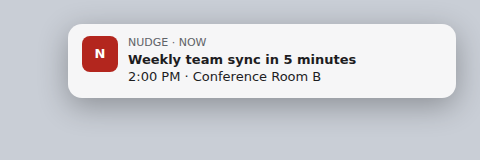
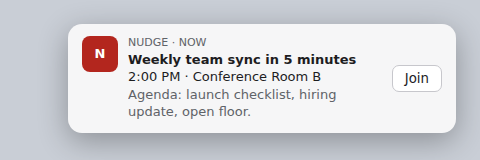
T-78: Nudge: design: S01 'Now' section and Join buttons on S01-S03

Changed region(s): [[0.125, 0.5625, 0.9688, 0.9375], [0.8125, 0.4062, 0.9062, 0.5312]]

diff --git a/design/screens/S01-menu-bar-menu/spec.md b/design/screens/S01-menu-bar-menu/spec.md
@@ -1,24 +1,35 @@
 ---
 id: S01
 name: Menu bar menu
-purpose: Check that Nudge is working, see what's next, and fix problems
-size: 372x340
+purpose: Check that Nudge is working, see what's on now and next, join a call, and fix problems
+size: 372x600
 ---
 
 ## Content and actions
 - Status line: green dot + "Synced just now · <calendar>" or red dot + problem text.
-- Next meetings: up to 3 upcoming today on the chosen calendar; meeting due within 5 min shows "in N min" in bold amber.
+- Now: shown only while a meeting is running (start ≤ now < end; all-day and declined meetings excluded), under a "Now" header above "Next meetings". Up to 3, earliest start first. Detail is "until <end time>" (e.g. "until 2:00 PM") in the normal muted style. Bold amber stays reserved for "in N min".
+- Next meetings: up to 3 upcoming today on the chosen calendar; meeting due within 5 min shows "in N min" in bold amber. The header is left out when nothing is coming up.
+- Meeting row (Now and Next): title on the left (one line, ellipsis), detail right-aligned. A meeting with a join link shows a small "Join" pill (11px semibold, white on accent #0B57D0, 5px radius) just left of the detail; the detail column stays right-aligned either way.
+- Description: the start of the meeting's notes, under the title in 12px muted text, two lines at most, then ellipsis. Plain text only: HTML stripped, whitespace collapsed, and lines that are only a join link or conferencing boilerplate (e.g. "Join with Google Meet", dial-in numbers) removed. If nothing is left, no line is shown and the row stays one line.
+- Join: a meeting row with a link is enabled; clicking anywhere on the row (or pressing Return on it) opens the link in the default browser/app and closes the menu. Rows without a link show no pill and are not clickable (same as before).
 - Calendar submenu: pick which calendar to watch (checkmark on current).
 - Test the alerts: runs the S03 banner and S02 screen with a fake meeting.
 - Refresh now (⌘R), Quit (⌘Q).
 - Menu bar icon: template bell, one colour, tinted by macOS for light and dark menu bars. While a problem exists: the same bell with a solid #B3261E dot at its top-right, separated from the bell by a thin clear ring. The bell itself never turns red.
 ## States
-- Normal: screen.html. Empty (no more meetings today): states/empty.html.
-- Error (network/calendar failure): states/error.html. Keeps alerting from last saved data, says so, offers Retry.
+- Normal: screen.html (a running meeting under Now, three next meetings; one without a link or description).
+- Running meeting, nothing after it today: states/now-only.html. Now section only; no "Next meetings" header and no empty text.
+- Empty: states/empty.html. "No more meetings today. Enjoy the quiet." shows only when nothing is running and nothing else is coming up today. Calendar, Test the alerts and Refresh now stay in the menu.
+- Error (network/calendar failure): states/error.html. Keeps alerting from last saved data, says so, offers Retry. Now and Join work from saved data too.
 - No access / no account: states/no-access.html, links to the macOS permission prompt and Internet Accounts.
 - Loading: status reads "Syncing…" with no dot colour change; list stays as is.
+- Highlighted row (hover or arrow keys): standard blue selection; the pill inverts to white with blue text and the description turns white.
 ## Notes and open questions
 - Problems are never shown as popups; only in this menu and the icon, so alerts are never interrupted.
+- The whole row is the Join target rather than a separate button, so it works with the keyboard like any menu item and stays a single NSMenuItem (custom view for the pill and description).
+- VoiceOver label per row: "<title>, <detail>. Join" when there is a link, "<title>, <detail>" otherwise; the description is read after it.
 ## Change log
 - Initial design.
 - Menu bar icon: problem state is the template bell plus a red #B3261E dot, replacing the red-tinted bell.badge.
+- Added the "Now" section for running meetings; new state states/now-only.html; empty.html now keeps the Calendar/Test/Refresh rows and shows only when nothing is running or coming up (T-78; T-76 already matches).
+- Added the Join pill and the two-line description to meeting rows, including in the error state (T-78, built in T-77).

diff --git a/design/ux.md b/design/ux.md
@@ -1,22 +1,24 @@
 # Nudge: UX spec
 ## Users and primary jobs
-One user: a busy person who misses meetings despite Google Calendar banners. Jobs: (1) get a loud early heads-up, (2) get an unmissable final warning, (3) trust the app is running and in sync.
+One user: a busy person who misses meetings despite Google Calendar banners. Jobs: (1) get a loud early heads-up, (2) get an unmissable final warning and get into the call in one click, (3) trust the app is running and in sync.
 ## Information architecture
 No windows. Menu bar only: S01 Menu bar menu; alerts S03 Five-minute banner and S02 Full-screen warning.
 ## Key flows
 1. First run: S01 shows no-access state → user allows calendar access / adds Google account → S01 normal.
-2. T-5 min: S03 banner + sound.
-3. T-1 min: S02 covers all screens → "Got it" dismisses.
-4. Sync failure: S01 icon turns red; menu explains and keeps alerting from saved data → Retry.
+2. T-5 min: S03 banner + sound → "Join" (if the meeting has a link) opens the call.
+3. T-1 min: S02 covers all screens → "Join" opens the call and dismisses, or "Got it" / Return / Esc dismisses.
+4. Any time: S01 shows the running meeting under "Now" and today's next ones → click a row with a "Join" pill to open the call.
+5. Sync failure: S01 icon turns red; menu explains and keeps alerting from saved data → Retry.
 ## Design system
 - Colours: alert red #7A0F0A, error red #B3261E, ok green #1E7F3C, amber #A35200, text #1D1D1F, muted #5F6368, menu bg #F6F6F7, accent #0B57D0. Brand (logo and app icon only): gradient #EF5A47 → #C42F25, calendar header #9E1F17.
 - Type: system font (SF). Menu 13px; banner title 13px semibold; full-screen: 96px title, 200px countdown, 24–28px secondary.
 - Spacing: 6/10/14px in menus; 40px padding full-screen.
-- Components: menu row, status line, primary button (white on red).
+- Components: menu row, status line, primary button (white on red), secondary button (white outline on red), Join pill (S01: 11px semibold, white on #0B57D0, 5px radius).
+- Join link: the meeting's URL field first, then the first link in its location or notes, preferring Google Meet (meet.google.com), Zoom (zoom.us), Teams (teams.microsoft.com), else any https link. No link: no Join anywhere.
+- Description: the start of the meeting's notes as plain text (HTML stripped, whitespace collapsed, join-link and dial-in boilerplate removed), two lines at most, then ellipsis; nothing shown when empty. Muted 12px in S01, 24px at 90% white in S02, notification body in S03.
 - Tone: short, calm, plain. No exclamation marks.
 - Logo: a small calendar page (white sheet, deep-red header #9E1F17, two binder rings, one red meeting block) tilted to the left on a warm coral-to-red gradient tile (#EF5A47 top-left to #C42F25 bottom-right), with two short white motion arcs at its right edge, as if it has just been tapped. It says "your calendar, nudging you": Nudge gives your meetings a little shake before they start. The gradient is deliberately lighter and warmer than the alert red #7A0F0A so the icon sits comfortably in the Dock; the deep alert red stays reserved for S02. At 16px the arcs fade and the tilted white page with its red top still reads as a calendar. `brand/mark.svg` is the square master for the app icon (Finder, Dock, installer); `brand/logo.svg` is the mark beside "Nudge" in text #1D1D1F (use on light backgrounds; on dark, set the word in white). The tile carries its own background, so the mark works on light and dark without a variant. Keep clear space of at least a quarter of the mark's width around it. The S01 menu bar icon stays the bell; the mark is not used in the menu bar.
 ## Accessibility
-Contrast ≥ 4.5:1 (white on #7A0F0A ≈ 11:1). Everything is keyboard operable; Return/Esc dismiss S02; visible focus ring; dismiss button focused on open; VoiceOver labels on all items; never rely on colour alone (status text accompanies dots).
+Contrast ≥ 4.5:1 (white on #7A0F0A ≈ 11:1). Everything is keyboard operable; Return/Esc dismiss S02 and never join; visible focus ring; dismiss button focused on open; VoiceOver labels on all items; never rely on colour alone (status text accompanies dots).
 ## Open questions
 - Should "Got it" also allow snooze? (Not in MVP.)
-- Show meeting video link in S02? (Not in MVP.)

diff --git a/design/screens/S02-full-screen-warning/spec.md b/design/screens/S02-full-screen-warning/spec.md
@@ -1,19 +1,26 @@
 ---
 id: S02
 name: Full-screen warning
-purpose: Make it impossible to miss that a meeting starts in one minute
+purpose: Make it impossible to miss that a meeting starts in one minute, and get into it in one click
 size: 1440x900
 ---
 
 ## Content and actions
 - Covers every connected screen at 1 minute before start. Red background (#7A0F0A), white text.
 - "Starting in" + live countdown (1:00 → 0:00), meeting title, time range, location if any.
-- "Got it" button (focused by default); Return or Esc also dismisses. Dismiss closes on all screens.
-- At 0:00 the countdown reads "Starting now" and the screen stays until dismissed.
+- Description: the start of the meeting's notes under the time line, 24px white at 90% opacity, max 760px wide, two lines at most, then ellipsis. Same cleaning as S01 (plain text, join-link and conferencing boilerplate removed). Nothing is shown when there is none.
+- Buttons, side by side, centred: "Join" (white fill, red text) when the meeting has a join link, then "Got it" (white outline on red). Without a link only "Got it" shows, in the white-fill style.
+- Join opens the link in the default browser/app and dismisses the warning on all screens.
+- "Got it" is focused by default; Return or Esc dismisses. Return never joins, so a keystroke typed as the warning appears can't open a call by accident. Tab moves to Join; Space activates the focused button. Dismiss closes on all screens.
+- At 0:00 the countdown reads "Starting now" and the screen stays until dismissed or joined.
 ## States
-- Single main state (screen.html). No location: line shows time range only. Very long title: wraps, max 2 lines, then ellipsis.
+- With join link and description: screen.html.
+- No join link, no description: states/no-link.html (only "Got it", no description line).
+- No location: line shows time range only. Very long title: wraps, max 2 lines, then ellipsis.
 - Back-to-back meetings: the new warning replaces the old one.
 ## Notes and open questions
-- Countdown is announced to VoiceOver once at open, not every second.
+- Countdown is announced to VoiceOver once at open, not every second. The announcement adds "Join available" when there is a link.
+- Join gets the filled style because it is the action most people want; focus stays on "Got it" for safety (see above).
 ## Change log
 - Initial design.
+- Added the Join button and the two-line description; new state states/no-link.html (T-78, built in T-77).

diff --git a/design/README.md b/design/README.md
@@ -8,6 +8,6 @@ Status: **draft** (UX not approved yet), **approved**, **building** (a ticket fo
 
 | ID | Screen | Status | Purpose | Tickets | Updated |
 | --- | --- | --- | --- | --- | --- |
-| S01 | [Menu bar menu](screens/S01-menu-bar-menu/screen.html) (+3 states) · [spec](screens/S01-menu-bar-menu/spec.md) | building | Check that Nudge is working, see what's next, and fix problems | T-6, T-8, T-9, T-11, T-21, T-36, T-52, T-53, T-72, T-76, T-77 | 2026-11-04 |
-| S02 | [Full-screen warning](screens/S02-full-screen-warning/screen.html) · [spec](screens/S02-full-screen-warning/spec.md) | building | Make it impossible to miss that a meeting starts in one minute | T-6, T-10, T-11, T-77 | 2026-10-27 |
-| S03 | [Five-minute banner](screens/S03-five-minute-banner/screen.html) · [spec](screens/S03-five-minute-banner/spec.md) | building | Early heads-up with sound, 5 minutes before a meeting | T-6, T-9, T-11, T-77 | 2026-10-27 |
+| S01 | [Menu bar menu](screens/S01-menu-bar-menu/screen.html) (+3 states) · [spec](screens/S01-menu-bar-menu/spec.md) | building | Check that Nudge is working, see what's next, and fix problems | T-6, T-8, T-9, T-11, T-21, T-36, T-52, T-53, T-72, T-76, T-77, T-78 | 2026-11-04 |
+| S02 | [Full-screen warning](screens/S02-full-screen-warning/screen.html) · [spec](screens/S02-full-screen-warning/spec.md) | building | Make it impossible to miss that a meeting starts in one minute | T-6, T-10, T-11, T-77, T-78 | 2026-10-27 |
+| S03 | [Five-minute banner](screens/S03-five-minute-banner/screen.html) · [spec](screens/S03-five-minute-banner/spec.md) | building | Early heads-up with sound, 5 minutes before a meeting | T-6, T-9, T-11, T-77, T-78 | 2026-10-27 |

diff --git a/design/screens/S03-five-minute-banner/spec.md b/design/screens/S03-five-minute-banner/spec.md
@@ -6,10 +6,15 @@ size: 480x160
 ---
 
 ## Content and actions
-- Standard macOS notification: title "<Meeting> in 5 minutes", body "<time> · <location>". Plays alert sound. Clicking it does nothing beyond dismissing.
+- Standard macOS notification: title "<Meeting> in 5 minutes", subtitle "<time> · <location>", body the start of the meeting's description (same cleaning as S01; macOS shows about two lines). No description: no body. Plays alert sound.
+- Join: a notification action button "Join", only when the meeting has a join link. It opens the link in the default browser/app. Clicking the banner itself does nothing beyond dismissing.
 ## States
-- Single state. No location: body shows time only. Notifications denied: S01 shows a warning (see no-access) and the sound still plays.
+- With join link and description: screen.html.
+- No join link, no description: states/no-link.html (no button, no body).
+- No location: subtitle shows time only. Notifications denied: S01 shows a warning (see no-access) and the sound still plays.
 ## Notes and open questions
 - Uses the system look, so Focus modes may mute it; the S02 screen is the backstop.
+- The Join button uses a notification category with one action; macOS decides whether it shows on the banner or on hover, so the mockup shows it inline.
 ## Change log
 - Initial design.
+- Added the Join action and the description body; time and location move to the subtitle; new state states/no-link.html (T-78, built in T-77).
